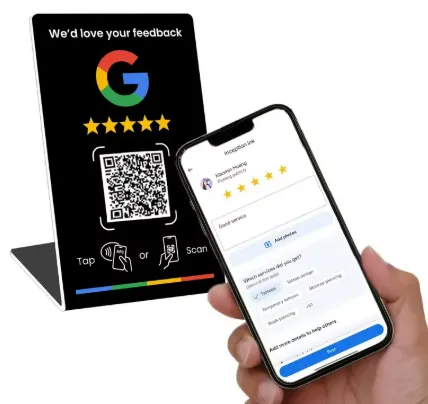
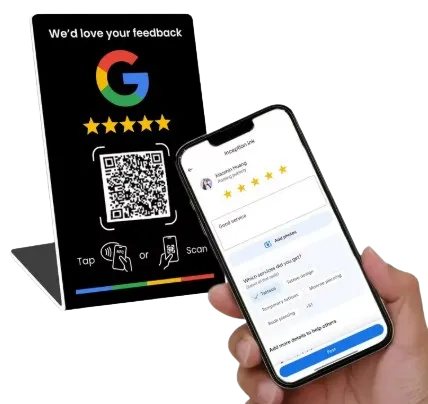
fix(nfc): re-convert Google card and drop supplier SKU-named gallery files

diff --git a/tests/unit/seo/nfcImageRights.test.ts b/tests/unit/seo/nfcImageRights.test.ts
@@ -43,6 +43,14 @@ describe("NFC images: no supplier photo without rights (F-07)", () => {
     );
   });
 
+  it("no supplier SKU-style filenames remain in public/ or the image script", () => {
+    const sku = /^S[0-9a-f]{32}m?\.jpg_/;
+    expect(fs.readdirSync(path.join(ROOT, "public/assets/nfc")).filter((f) => sku.test(f))).toEqual([]);
+    const script = fs.readFileSync(path.join(ROOT, "scripts/optimize-images.mjs"), "utf-8");
+    expect(script).not.toMatch(/\.jpg_640x640q75/);
+    expect(script).not.toMatch(/NFC_RENAMES|renameNfcGalleryAssets/);
+  });
+
   it("own card images exist in public/", () => {
     for (const name of ["tarjeta_nfc_google.webp", "tarjeta_nfc.webp"]) {
       expect(fs.existsSync(path.join(ROOT, "public/assets/nfc", name))).toBe(true);

diff --git a/.claude/seo/findings-log.md b/.claude/seo/findings-log.md
@@ -11,7 +11,7 @@ Hallazgos verificados en producción (`https://digitalizatenerife.es/`). Antes d
 | F-19 | 2026-10-23 | Contenido | NOT VERIFIED | `/about` sin historia/equipo reales. Blog creado (4 artículos) sin cifras de precio: si el propietario quiere publicar precios, hay que añadirlos al artículo del TPV. Supermercados descartados por el propietario. | auditoría 2026-10-23 | Propietario: texto/fotos de equipo, precios publicables |
 | F-20 | 2026-10-23 | Imágenes | WARNING | La home usa 2 imágenes de producto (captura de carta y foto Unsplash de cobro). Falta una foto real del TPV en un local y de la tarjeta NFC (F-07 impide usar la del proveedor). | `HomeSolutionsSection.tsx` | Propietario: fotos propias |
 | F-14 | 2026-10-07 | Diseño | INFO | Varios componentes usan `font-black` (900) con Space Grotesk, pero su eje variable llega a 700 como máximo (la API de Google Fonts devuelve 400 con `wght@400..900`). El 900 nunca se ha visto. | `rg font-black src` | Cambio visual aparte, no es de SEO |
-| F-07 | 2026-10-05 | Contenido | FIXED 2026-10-28 | Sin permiso de MontesTAP: foto `Tarjeta_NFC_negra_MontesTAP.webp` eliminada; home y carta digital usan `tarjeta_nfc_google.webp`, galería NFC `tarjeta_nfc.webp` (propias). Guard: `tests/unit/seo/nfcImageRights.test.ts`. Pendiente revisar derechos de las fotos de exhibidores de la galería (`/assets/nfc/nfc-*.avif`, nombres SKU de proveedor). | `HomeSolutionsSection.tsx`, `CartaDigitalSolucionSection.tsx`, `ProductGallery.tsx` | Propietario |
+| F-07 | 2026-10-05 | Contenido | FIXED 2026-10-28 | Sin permiso de MontesTAP: foto `Tarjeta_NFC_negra_MontesTAP.webp` eliminada; home y carta digital usan `tarjeta_nfc_google.webp`, galería NFC `tarjeta_nfc.webp` (propias). Guard: `tests/unit/seo/nfcImageRights.test.ts`. Originales con nombre SKU eliminados del repo y del script (2026-10-28); los derechos de las fotos de exhibidores (`/assets/nfc/nfc-*.avif`) siguen sin verificar. | `HomeSolutionsSection.tsx`, `CartaDigitalSolucionSection.tsx`, `ProductGallery.tsx` | Propietario |
 | F-09 | 2026-10-05 | Producto / Conversión | FAIL | **El chatbot de IA no responde en producción**: `chat-with-rag` devuelve 500 y su fallback `gemini-generate` 400; el usuario ve "Hubo un error al conectar con el asistente". No tiene que ver con la CSP (no hubo violaciones) y coincide con los 3 tests e2e de `tests/e2e/chatbotFlow.test.ts` que venían fallando. Es el producto demo de la página /ia-chatbots-tenerife. | Navegador real en producción 2026-10-05 (`responseStatus` 500/400)  **Causa raíz (logs de Supabase `function_logs`)**: Gemini responde **402 RESOURCE_EXHAUSTED, "Your prepayment credits are depleted"**: se agotó el saldo prepago de la API. No es un bug de código. | Propietario: recargar créditos en ai.studio/projects (no hace falta redesplegar). Mejora propuesta: si el backend de IA falla, que el chat muestre un CTA de WhatsApp en vez de un error genérico, para no perder el lead. **2026-10-07: sigue en FAIL** (los 3 tests e2e de `chatbotFlow` siguen dando 500). |
 
 ## Resueltos (2026-10-23)

diff --git a/docs/audit/2026-10-28_nfc-supplier-photo-removal.md b/docs/audit/2026-10-28_nfc-supplier-photo-removal.md
@@ -15,6 +15,9 @@ CI on `main` had been red since PR #165 (runs #414–#416). PR #165 put `Tarjeta
 - The fallback in `ProductGallery.tsx` (NFC page) uses `/assets/nfc/tarjeta_nfc.webp`, with width/height set to 625x436.
 - Deleted `public/assets/Tarjeta_NFC_negra_MontesTAP.webp`.
 
+- Re-converted `tarjeta_nfc_google.png` after the owner replaced it (428x404, now 21 KB).
+- Deleted the 4 supplier SKU-named gallery originals (`S…jpg_640x640q75.jpg_.avif`), after checking with `cmp` that each one is byte-identical to its descriptive copy. `scripts/optimize-images.mjs` now lists `NFC_GALLERY_MAINS` instead of using `NFC_RENAMES`/`renameNfcGalleryAssets`. A guard was added to `nfcImageRights.test.ts`; it was RED first.
+
 ## Verification
 
 - Jest: every unit suite passes. The only failure is `tests/e2e/chatbotFlow.test.ts`, which returns 503 from the live chatbot endpoint. That test is unrelated to this change and is skipped in CI.

diff --git a/CHANGELOG.md b/CHANGELOG.md
@@ -21,6 +21,7 @@ and this project adheres to [Semantic Versioning](https://semver.org/spec/v2.0.0
 ### Removed
 
 - **NFC supplier photo (no usage rights, F-07)**: `Tarjeta_NFC_negra_MontesTAP.webp` is deleted. The home flagship card and the carta digital section now use the business's own Google-review card (`/assets/nfc/tarjeta_nfc_google.webp`), and the NFC page gallery fallback uses the own NFC card (`/assets/nfc/tarjeta_nfc.webp`). This fixes the red CI on `main` (the F-07 guard test).
+- **Supplier SKU-named NFC gallery files**: the 4 `S…jpg_640x640q75.jpg_.avif` originals are deleted (byte-identical copies already live under descriptive names), and `scripts/optimize-images.mjs` drops the `NFC_RENAMES` map and `renameNfcGalleryAssets` for a plain `NFC_GALLERY_MAINS` list.
 
 ### Changed
 
